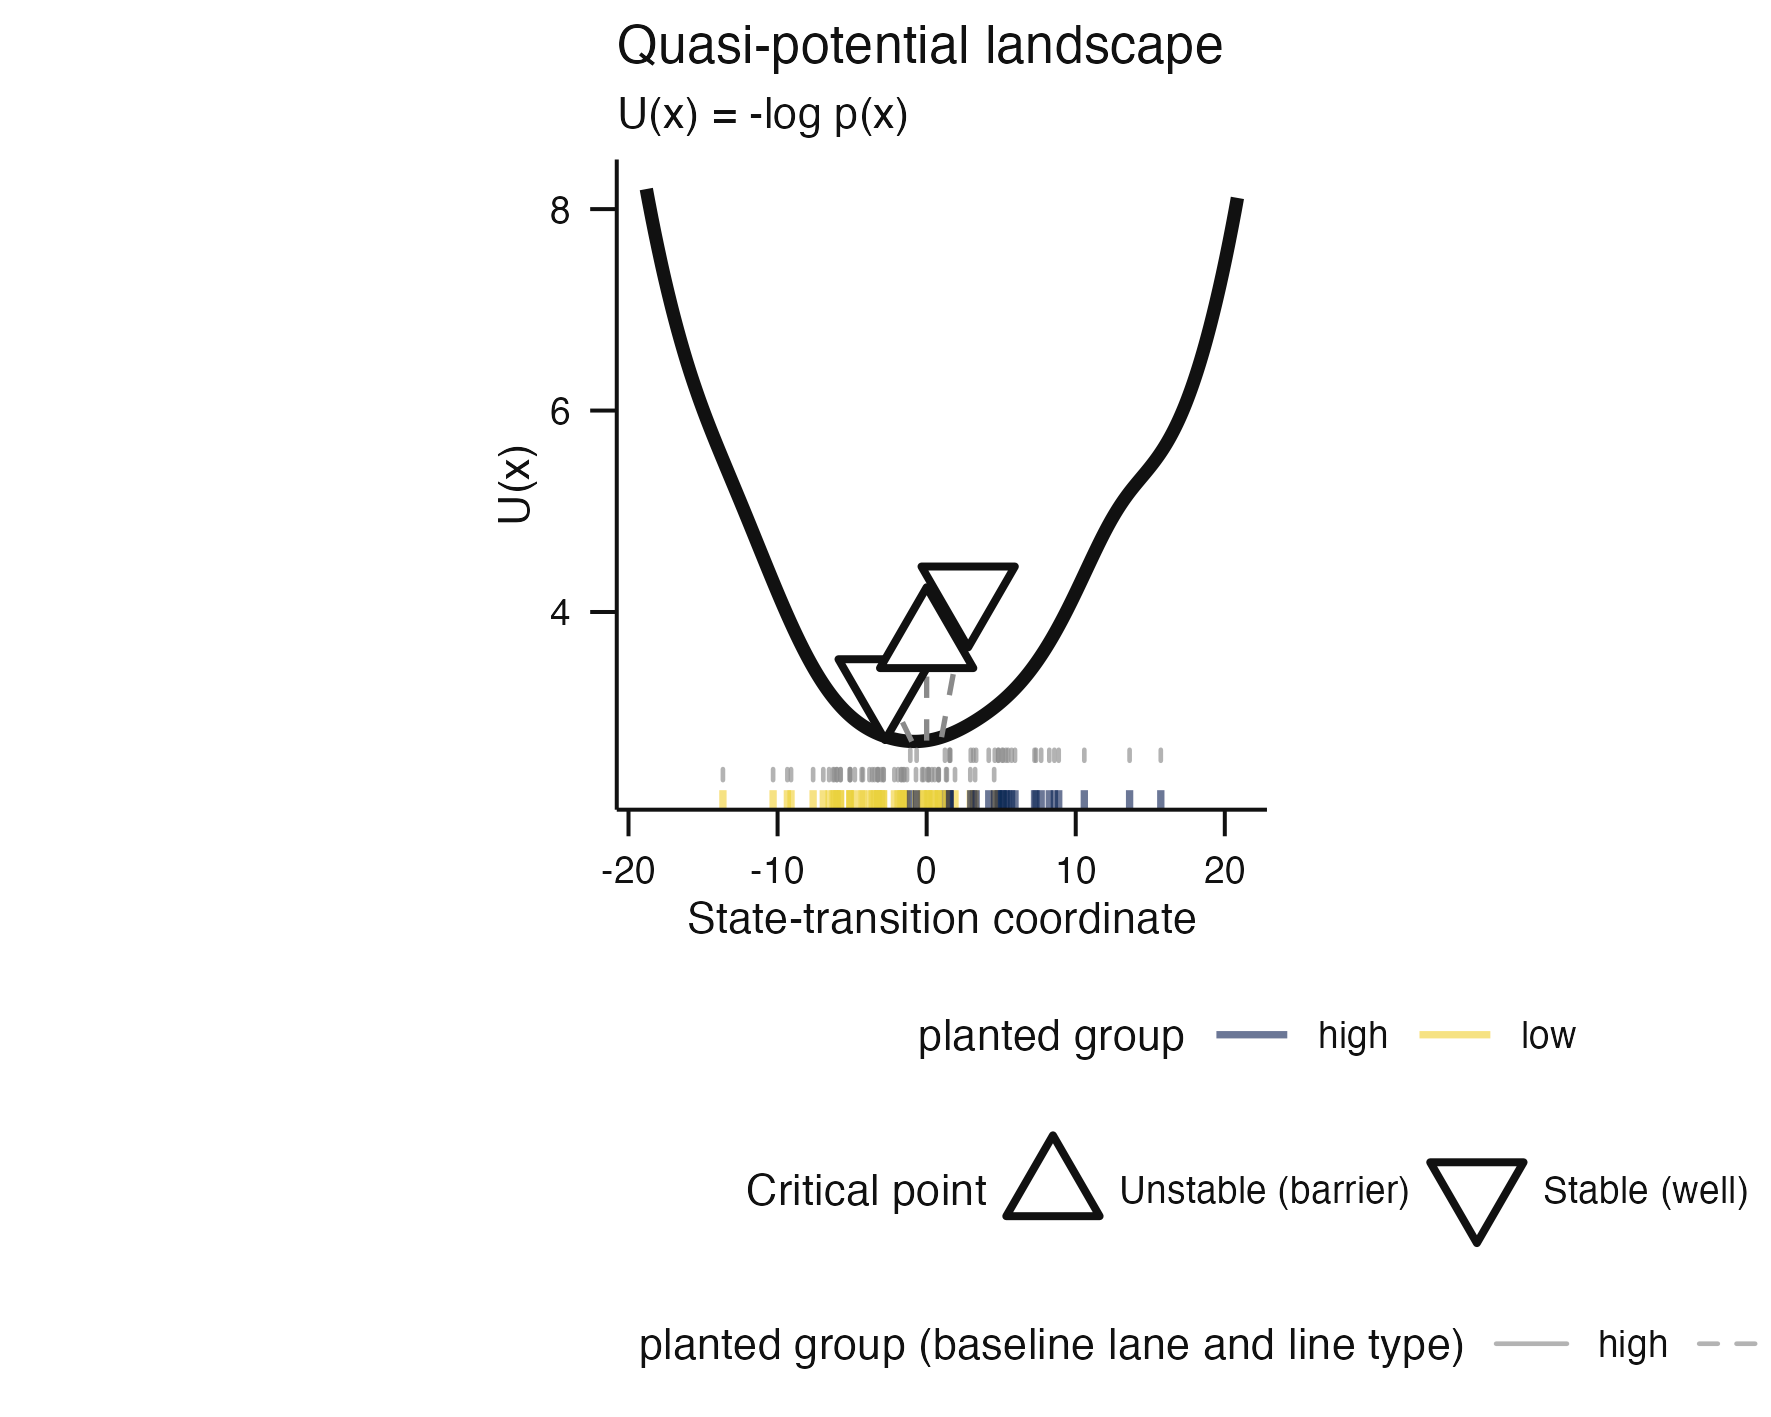
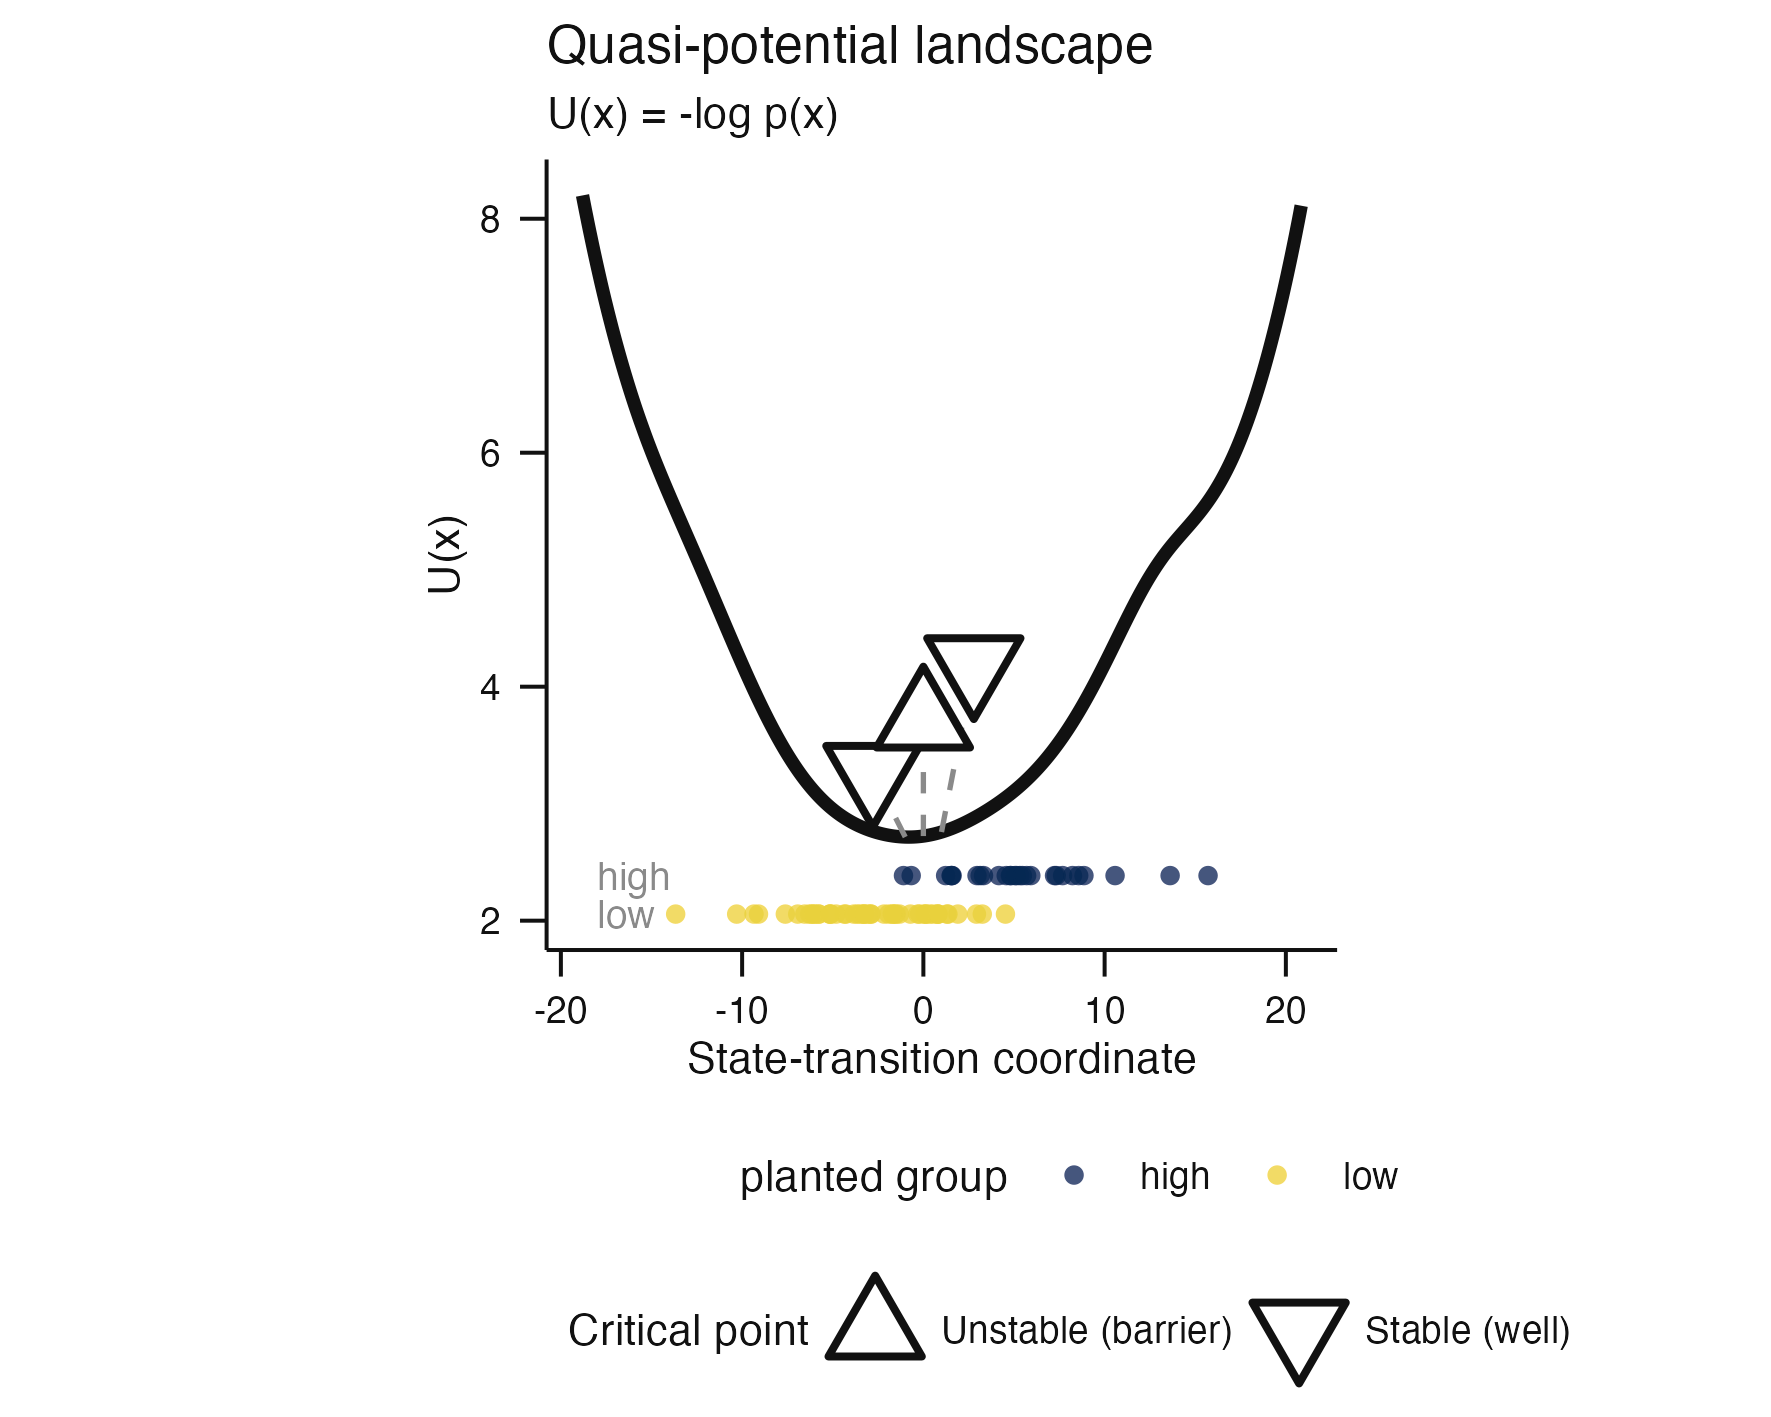
fix: replace critical plot stems with labelled rows

diff --git a/.github/landing-proof/issue-230/README.md b/.github/landing-proof/issue-230/README.md
@@ -9,9 +9,9 @@ a fixed synthetic fixture. Categorical metadata retains colour and adds
 baseline stem line type and height when critical-point overlays are hidden.
 Continuous metadata retains colour and adds baseline stem height and width
 when critical-point overlays are hidden. Critical-point views omit those
-redundant baseline stems, retain distinct short baseline lanes with a
-secondary line-type encoding for recoverable group identity, and use
-outlined, staggered well/barrier markers. Critical lanes support at most
+redundant baseline stems, use directly labelled, colour-coded sample rows
+for recoverable group identity, and use outlined, staggered well/barrier
+markers. Critical rows support at most
 four observed groups.
 Decomposition points use colour plus shape or size in one layer. Native
 100 x 80 mm and reduced 90 x 72 mm renders, plus deuteranopia-simulated
